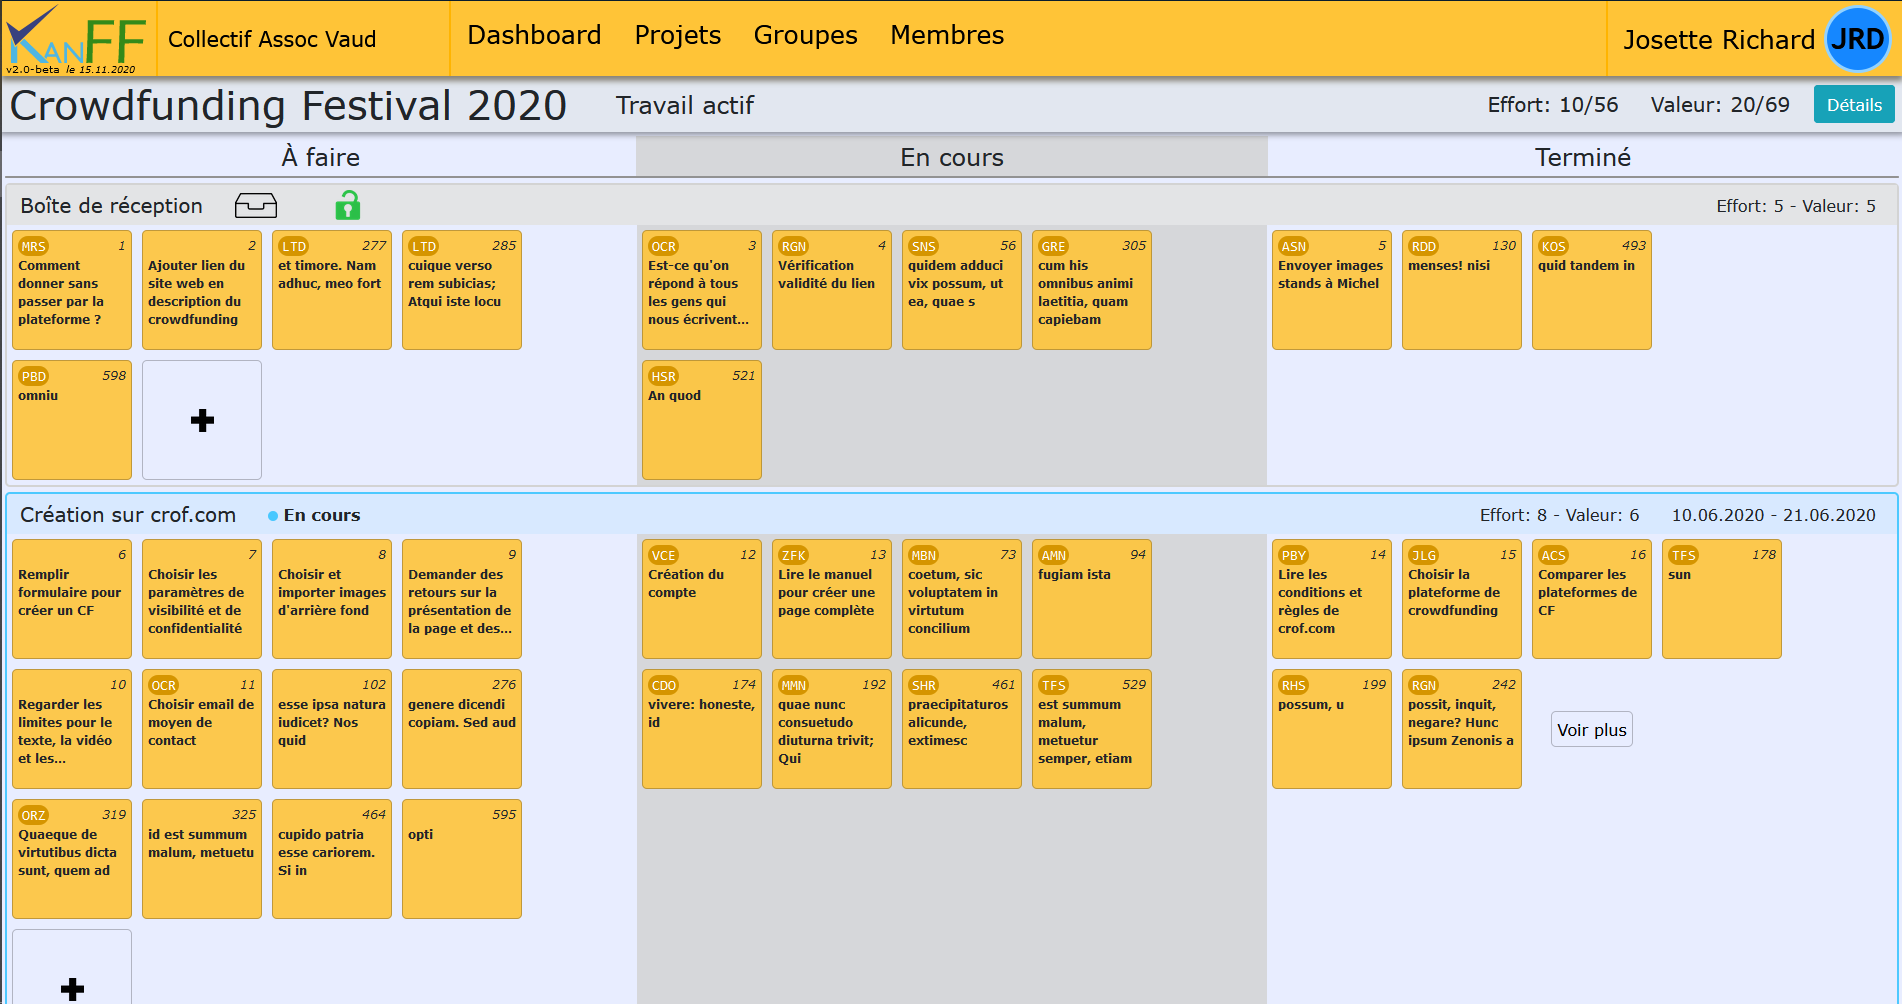
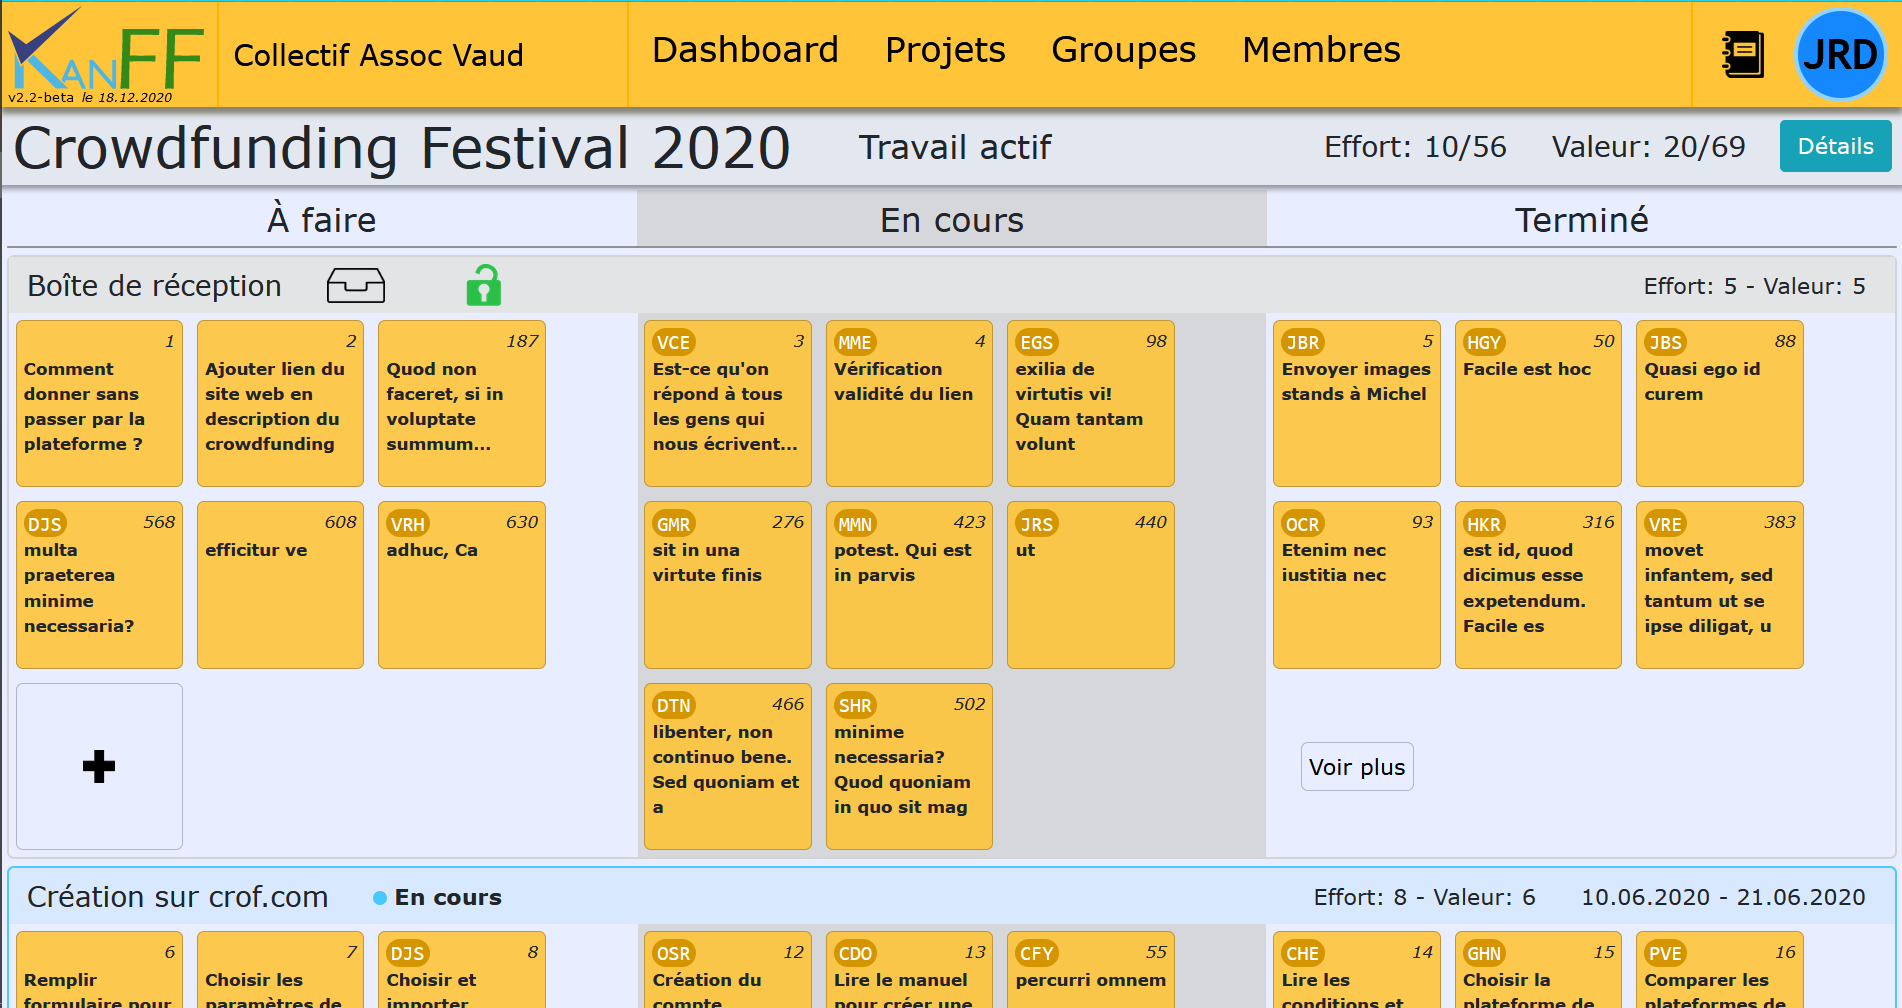
readme: added notes about used languages | changed Contributions | new kanban image

diff --git a/README.md b/README.md
@@ -16,6 +16,7 @@ Chaque projet a un kanban et est divisé en parties appelées "travaux". Ceux-ci
 La gestion de toutes ces tâches et travaux dans les différents projets se fait collaborativement à travers le kanban et les détails du projet. Les événements importants relatifs à un projet sont consignés par les membres dans un journal de bord.
 
 #### Le kanban
+Le kanban est la page principale de l'application puisque c'est à cet endroit que les tâches vont pouvoir être gérées.
 Le kanban du projet `Crowdfunding Festival 2020` pour le collectif fictif `Collectif Assoc Vaud`.
 
 ![readme-kanban-example.PNG](doc/img/readme-kanban-example.PNG)
@@ -27,7 +28,7 @@ Les détails d'une tâche (numéro 1) sur le kanban du projet `Crowdfunding Fest
 ## Contexte d'utilisation
 L'application est pensée pour être utilisée par **des membres de collectifs, d'organisations, de mouvements, d'associations ou de simples groupes ayant des projets communs.**  
 L'application se veut **polyvalente** et devrait pouvoir être utilisée dans des groupes de différentes tailles, structures, objectifs et organisation du travail, et réalisant des projets de nature différente, ...
-*Pour l'instant, une instance KanFF ne peut pas héberger plusieurs collectifs*.
+*Pour l'instant, une instance KanFF ne peut pas héberger plusieurs collectifs*. A propos de la langue, l'application est en français, et sera traduite en d'autres langues (anglais, allemand, ...) une fois le système de traductions implémentés (après la v1.0). Le code est entièrement en anglais, la communication sur GitHub aussi. La documentation est partagée entre l'anglais et le français. A l'avenir, nous aimerions pouvoir avoir tout en anglais sur le repository mais ce n'est pas pour tout de suite...
 
 ## Objectif de l'application
 L'application doit permettre: de **gérer des projets, gérer des tâches**, la répartition du travail, de planifier des projets, de gérer les **membres** et les **groupes**, ... afin de **collaborer à plusieurs sur des projets**, avoir une **vision d'ensemble large** (de tous les projets, travaux, tâches, groupes et membres du collectif), mieux répartir la charge de travail, inclure de nouvelles personnes et aussi les personnes moins engagées...
@@ -51,31 +52,31 @@ L'indication de la version de l'application (ainsi que la date de publication) s
 ### Documentations
 Les documentations sont pour certaines en cours d'écriture ou incomplètes...
 
-#### Documentation utilisateur
-- [Documentation utilisateur](doc/kanff-doc-user-fr.md) (en cours)
+#### Documentation utilisateur·ice
+- [Mode d'emploi](doc/kanff-doc-user-fr.md) (en cours)
 
 #### Documentations techniques (développement)
-- [Documentation globale](doc/kanff-doc-fr.md)(en cours)
-- [Liste des pages (prévues et réalisées)](list-pages.md)
-- [Fonctions d'aide](helpers-functions.md)(en cours)
-- [Spécifications de la base de données](db-specifications.md)
-- [Structure des appels Ajax](structure-ajax-calls.md)
+- [Documentation globale](doc/kanff-doc-fr.md)
+- [Liste des pages (prévues et réalisées)](doc/list-pages.md)
+- [Fonctions d'aide](doc/helpers-functions.md)
+- [Spécifications de la base de données](doc/db-specifications.md)
+- [Structure des appels Ajax](doc/structure-ajax-calls.md)
 
 ### Avancement du projet
 Le projet a commencé le 23.04.2020 et est en développement actif. Il n'y a pas encore de version assez complète pour être utilisable (uniquement des versions bêta). La première version utilisable (`v1.0`) est prévue pour le 29.01.2021 (il est possible qu'il y ait du retard). Il y a actuellement beaucoup de petits bogues et de fonctionnalités commencées et non terminées. La sécurité est implémentée en partie (basiquement contre les injections SQL, l'accès à des ressources non-autorisées et le CSRF, mais par contre le XSS, l'upload de fichiers, ...). Un document sur la sécurité sortira avant la version 1.0.
 
 ### Contributions
-- Si vous avez trouvé un bogue, [créer un issue](https://github.com/samuelroland/KanFF/issues) et détailler le problème.
-Si vous êtes intéressé·e à contribuer, nous nous en réjouissons. Nous n'avons pas encore de lignes directrices pour les contributions, alors n'hésitez pas à nous envoyer un email pour nous motiver à les écrire (et nous dire au passage sur quoi vous aimeriez aider : code, documentation, design, autres) ... Vous pouvez sans hésiter ouvrir une issue également.
+Il y a plusieurs manières de contribuer à cette application, même sans savoir coder. Tout est décrit dans [les lignes directrices de contributions](CONTRIBUTING.md).
 
 ### Feuille de route
-Fonctionnalité prévues pour la version `v1.0` (~29.01.2021) :
+Fonctionnalité prévues pour la version `v1.0` (~~~29.01.2021~~ à partir d'avril 2021...) :
 - Gestion des membres
 - Gestion des groupes
 - Gestion des projets (inclut projets, travaux, tâches, groupes participants et journaux de bord)
 
 Fonctionnalité prévues pour les versions **après** la `v1.0` (pas de date définie pour l'instant) :
 - Gestion des collectifs (plusieurs collectifs par instance)
+- Système de traductions et traductions en anglais/allemand/italien
 - Gestion des événements (dans un calendrier)
 - Gestion notifications
 - Gestion des compétences
@@ -87,7 +88,7 @@ Le repository GitHub est public, mais le projet IceScrum est privé. Le projet e
 ### Objectif du projet
 Réaliser l'application KanFF permettant la gestion des membres, groupes et projets, pour une version `KanFF v1.0` publiée sur GitHub.
 
-<p style="color: #f66232"><em>L'application n'est pas responsive pour le moment, alors utilisez la en plein écran sur ordinateur.</em></p>
+<p style="color: #f66232"><em>L'application n'est pas responsive pour le moment, alors utilisez-la en plein écran sur ordinateur.</em></p>
 
 ## Installation (pour une instance)
 Cette procédure s'applique pour une instance à distance.  
